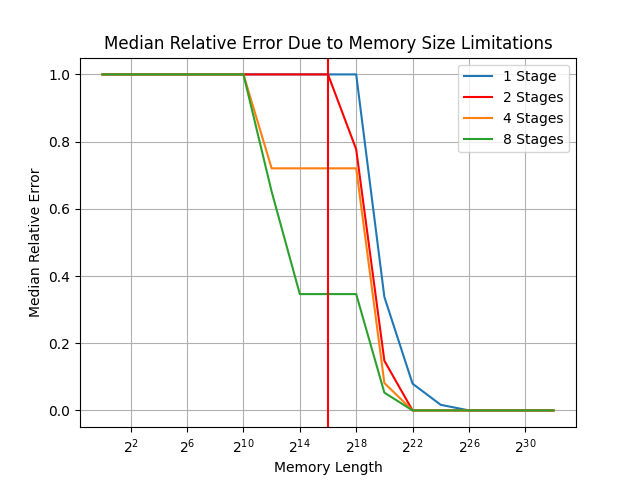
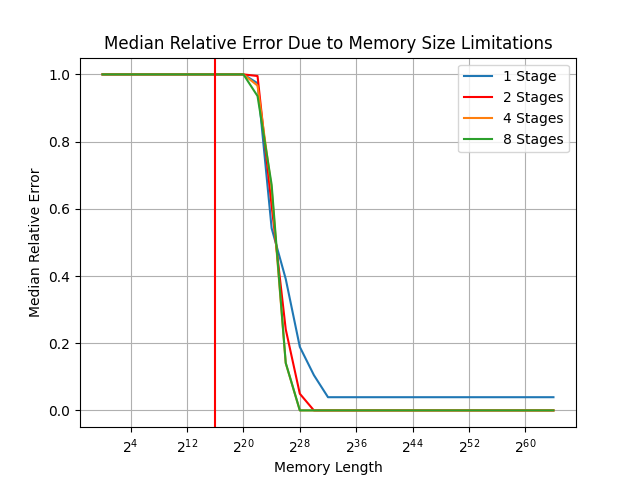
asdf

diff --git a/DNS_Netassay/PaperResults/combined_sim_v1.py b/DNS_Netassay/PaperResults/combined_sim_v1.py
@@ -83,7 +83,7 @@ def parse_dns_response(ip_packet, ts):
             break
 
     for g in [1, 2, 4, 8]:
-        for q in range(0, 33):
+        for q in range(0, 34, 2):
 
             modulo = int((2 ** q) / g)
 
@@ -147,7 +147,7 @@ def parse_tcp(packet_len, ip_packet, ts):
     salts = [np.uint32(134140211), np.uint32(187182238), np.uint32(187238), np.uint32(1853238), np.uint32(1828), np.uint32(12238), np.uint32(72134), np.uint32(152428), np.uint32(164314534), np.uint32(223823)]
 
     for g in [1, 2, 4, 8]:
-        for q in range(0, 33):
+        for q in range(0, 34, 2):
             
             modulo = int((2 ** q) / g)
 
@@ -219,7 +219,7 @@ if __name__ == '__main__':
         knownlistDict_mem = {}
         netassayTable_mem = {}
         usedHash_mem = {}
-        for q in range(0, 33):
+        for q in range(0, 34, 2):
             knownlistDict_q = {}
 
             for d in known_domains:
@@ -267,7 +267,7 @@ if __name__ == '__main__':
 
     outfile_stage = open('stage_limits.txt', 'w')
     for v in [1, 2, 4, 8]:
-        for c in range(0, 33):
+        for c in range(0, 34, 2):
 
             packet_errors = []
             byte_errors = []
